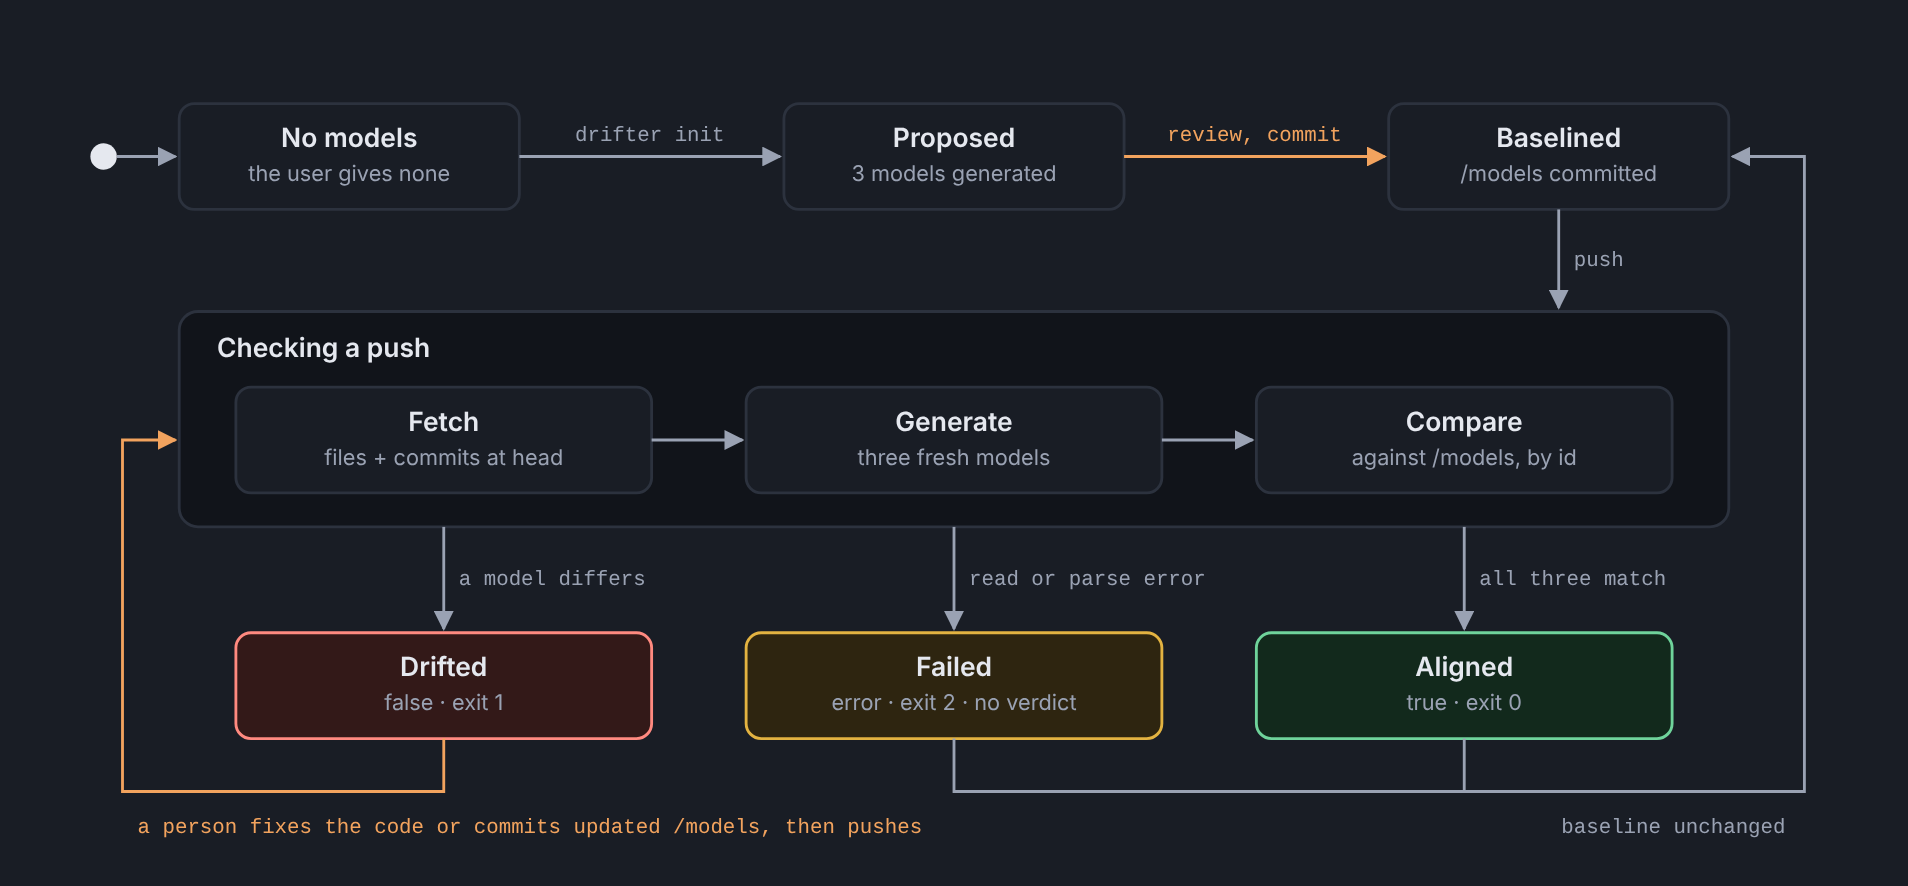
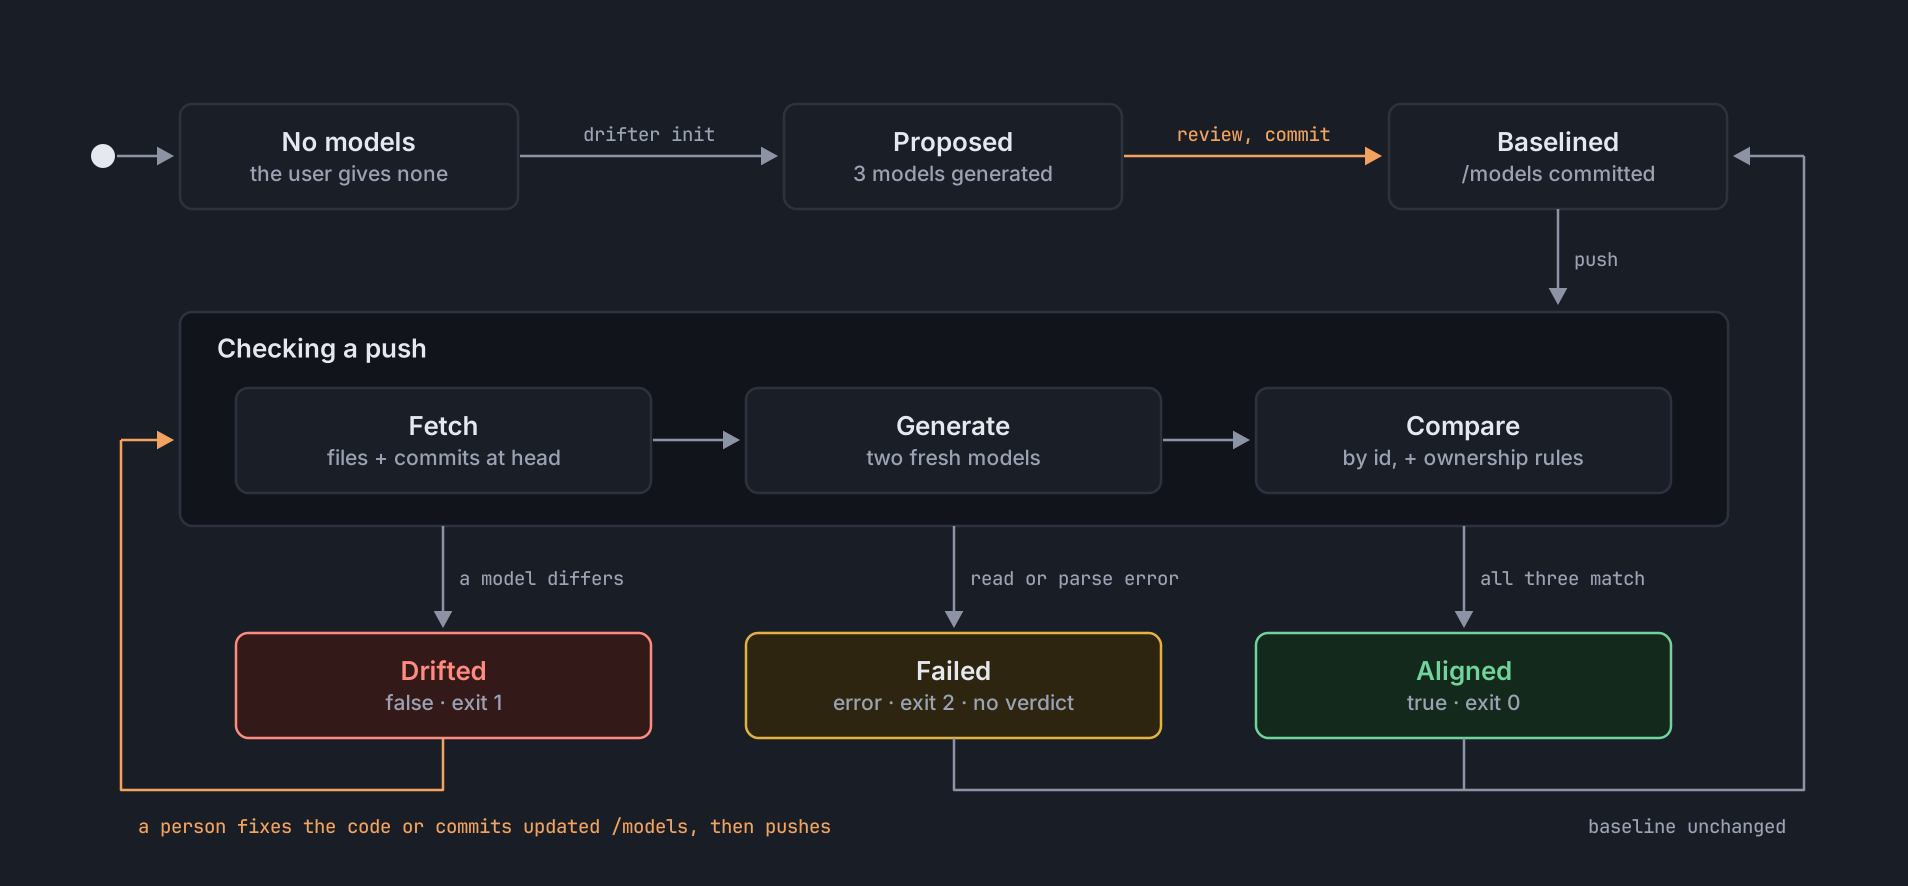
Redraw the model diagrams to match the pod contract
Seven diagrams in docs/models are redrawn in the same layout and style,
under the same names, to match docs/contract/ and the spec:

- who-talks-to-what: hosted /system serves analyze, analysis/{id},
  generate and health; adds change detection and the result store
- one-check: no-verdict codes in drift_error instead of HTTP errors,
  the hosted-only step, 90 s and ANALYSIS_FAILED
- four-field-answer: T-26 over /analyze, drift_error row, skip path
- cross-team-test: T-01 to T-33 over both fixtures, course report
- behavioral-model: two fresh models plus the ownership rules
- models-folder, research-evidence: Team 15's decisions, L-pre to L7

comparison.png was already aligned. The spec's Mermaid lifecycle and
docs/README.md follow the diagrams; the known-issue notes are gone.

Claude-Session: https://claude.ai/code/session_01FvSRVDmXYZaGW5qkvTf8My

diff --git a/docs/README.md b/docs/README.md
@@ -24,13 +24,13 @@ The pod contract with Team 16. Both teams' registry rows link it. It follows Tea
 
 Diagrams of the planned system, exported from the Phase 4 overview page.
 
-- `models/who-talks-to-what.png` — the developer, GitHub and a tester reach one drifter core through the CLI, the GitHub Action (Phase 5) and the hosted service; the repository is only read. Read it first to understand the system.
-- `models/behavioral-model.png` — lifecycle of a repository under the tool: init proposes the models, a person commits them, and each push ends Aligned, Drifted or Failed. The Mermaid source in spec §3.2 is the text version. Known issue: it says "three fresh models", but ownership is checked against its rules, not regenerated (spec §3.2).
-- `models/one-check.png` — one check step by step, from request to four-field answer, with the error code each step can return. Read it when working on the orchestrator or errors.
+- `models/who-talks-to-what.png` — the developer, GitHub and a tester reach one drifter core through the CLI, the GitHub Action (Phase 5) and the hosted service, which serves the pod contract's routes and adds change detection and a result store; the repository is only read. Read it first to understand the system.
+- `models/behavioral-model.png` — lifecycle of a repository under the tool: init proposes the models, a person commits them, and each push ends Aligned, Drifted or Failed. The Mermaid source in spec §3.2 is the text version. Only structural and behavioral are regenerated; ownership is checked against its rules (spec §3.2).
+- `models/one-check.png` — one check step by step, from request to four-field answer, with the HTTP error or no-verdict code each step can return, and what the hosted service adds. Read it when working on the orchestrator or errors.
 - `models/models-folder.png` — the four files in `/models` and what each holds. Element kinds and ids shown are illustrative; the real format is set in the spec, not in the pod contract.
 - `models/comparison.png` — how differences are decided: set difference by id for structural and behavioral (ADDED, REMOVED, MODIFIED), a rule check per commit for ownership (VIOLATION).
-- `models/four-field-answer.png` — the compare answer (`aligned`, `structural[]`, `behavioral[]`, `ownership[]`) and how a tester checks each field against the expected answer. Known issue: it shows `POST /system/compare`; the answer now comes as the `drift` key of `POST /system/analyze` (`contract/`).
-- `models/cross-team-test.png` — one cross-team test session: tester and system routes, the T-01 to T-17 loop, and the report. Known issue: it shows `/compare` and T-01 to T-17 on L0 to L8; the contract runs `/analyze` and T-01 to T-33 (`contract/pod-contract.md` §4).
+- `models/four-field-answer.png` — test T-26: the four-field answer as the `drift` key of `POST /system/analyze`, how a tester compares it with `contract/model-golden-outputs.json`, and when the test passes, fails or is skipped.
+- `models/cross-team-test.png` — one cross-team test session as `contract/pod-contract.md` defines it: tester and system routes, the T-01 to T-33 loop over both fixtures, and the report.
 - `models/research-evidence.png` — Team 15's tool research: what runs at runtime, what only serves tests, what is rejected. Team 15's choices, not the pod contract.
 
 ## history/

diff --git a/docs/base/specifications.md b/docs/base/specifications.md
@@ -286,7 +286,7 @@ stateDiagram-v2
     state Checking {
         [*] --> Fetch
         Fetch --> Generate: code + commits at head
-        Generate --> Compare: 3 fresh models
+        Generate --> Compare: 2 fresh models + ownership rules
         Compare --> [*]
     }
 
